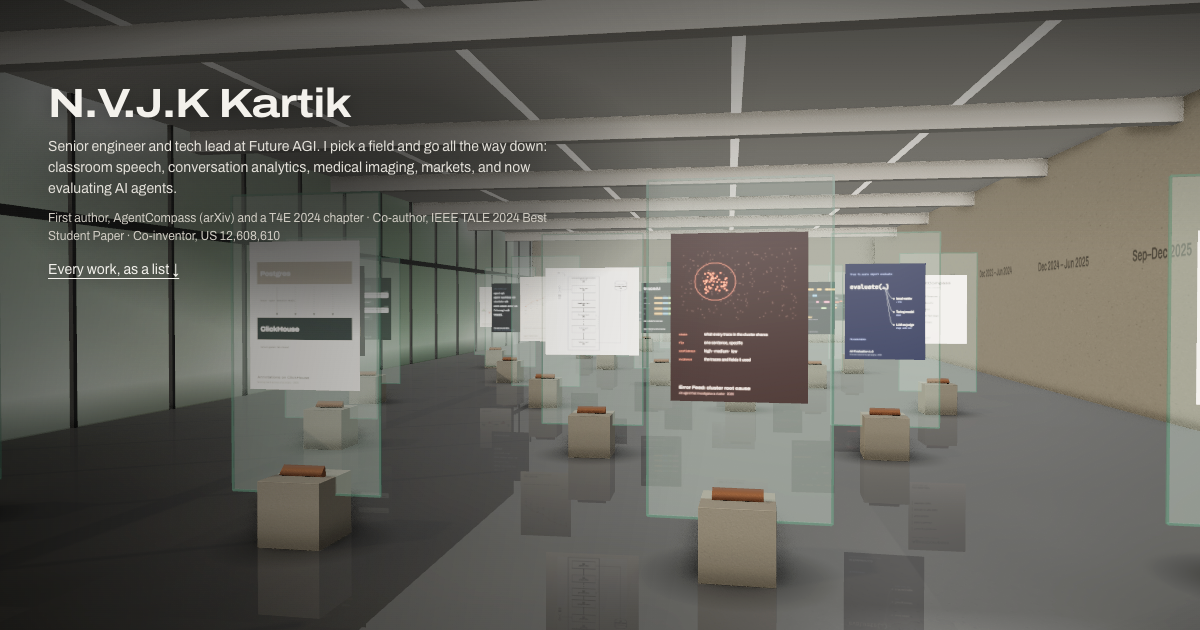
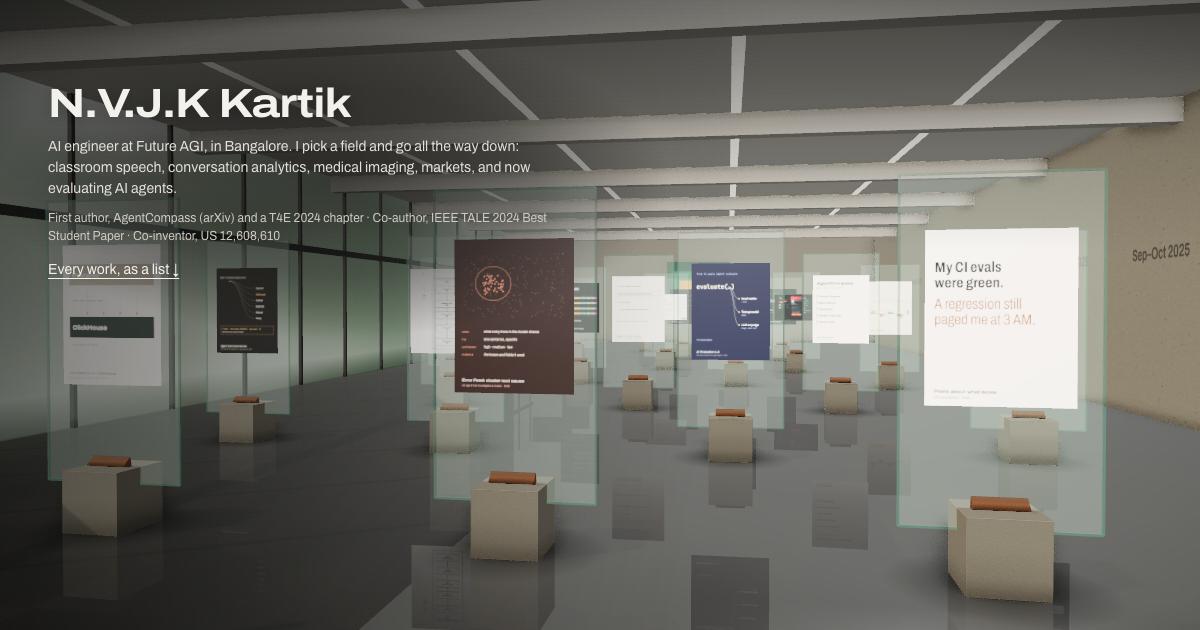
fix(content): AI engineer in Bangalore, no talk he doesn't recognise, real numbers
From Kartik:
- His title is AI engineer ("1 year as FTE is not gonna make me senior"):
  "senior engineer and tech lead" is gone from the wall text, role, intro
  and journey. He's based in Bangalore; the wall text and Contact say so.
- He didn't recognise the Bengaluru Tech Week "Harness Engineering" session,
  so the easel, its plate, the Luma source and the "co-hosted" line go. The
  hall has 22 works; rows run 3/4/3/4/3/3/2 so the front rows still stagger.
- Adoption numbers, dated and sourced, only where they're good: traceAI's
  core Python package did 14,383 downloads last month and has 222 GitHub
  stars; the open-source platform Error Feed ships in has 2,077.
Posters regenerated.

diff --git a/site/content/work.ts b/site/content/work.ts
@@ -73,6 +73,8 @@ export const work: Work[] = [
       { value: '4', label: 'languages in v1.0.0', source: 'traceaiV1' },
       { value: '46 / 39 / 24', label: 'Python packages / TypeScript packages / Java modules at v1', source: 'traceaiV1' },
       { value: '54', label: 'npm packages listing me as a maintainer', source: 'npm' },
+      { value: '14k', label: 'downloads last month of traceAI’s core Python package (Sep 2026)', source: 'pypiTraceai' },
+      { value: '222', label: 'GitHub stars on traceAI (Sep 2026)', source: 'ghTraceai' },
     ],
     sections: [
       {
@@ -105,7 +107,7 @@ OpenAIInstrumentor().instrument(tracer_provider=trace_provider)`,
       { label: 'GitHub', href: 'https://github.com/future-agi/traceAI' },
       { label: 'v1.0.0 release notes', href: 'https://github.com/future-agi/traceAI/releases/tag/v1.0.0' },
     ],
-    sources: ['traceaiRepo', 'traceaiV1', 'traceaiContributors', 'npm'],
+    sources: ['traceaiRepo', 'traceaiV1', 'traceaiContributors', 'npm', 'pypiTraceai', 'ghTraceai'],
   },
   {
     slug: 'agentcompass',
@@ -513,10 +515,13 @@ OpenAIInstrumentor().instrument(tracer_provider=trace_provider)`,
       src: '/media/plates/error-feed.webp',
       alt: 'Plate: failing traces with one cluster circled, and the cause, fix, confidence and evidence the agent returns.',
     },
-    facts: [{ value: '65–92%', label: 'lower feed API latencies after the performance pass', source: 'prErrorFeed' }],
+    facts: [
+      { value: '65–92%', label: 'lower feed API latencies after the performance pass', source: 'prErrorFeed' },
+      { value: '2,077', label: 'GitHub stars on the open-source platform it ships in (Sep 2026)', source: 'ghPlatform' },
+    ],
     sections: [],
     links: [{ label: 'PR #853', href: 'https://github.com/future-agi/future-agi/pull/853' }],
-    sources: ['prErrorFeed'],
+    sources: ['prErrorFeed', 'ghPlatform'],
   },
   {
     slug: 'annotations-clickhouse',

diff --git a/site/content/profile.ts b/site/content/profile.ts
@@ -8,12 +8,13 @@ export const profile = {
   /** One line of proof under the wall text: facts, not adjectives. */
   proof: 'First author, AgentCompass (arXiv) and a T4E 2024 chapter · Co-author, IEEE TALE 2024 Best Student Paper · Co-inventor, US 12,608,610',
   /** The wall text at the entrance to the hall. */
-  wall: 'Senior engineer and tech lead at Future AGI. I pick a field and go all the way down: classroom speech, conversation analytics, medical imaging, markets, and now evaluating AI agents.',
+  wall: 'AI engineer at Future AGI, in Bangalore. I pick a field and go all the way down: classroom speech, conversation analytics, medical imaging, markets, and now evaluating AI agents.',
   // The first thing people read. Short on purpose.
-  role: 'Senior engineer and tech lead, Future AGI',
+  role: 'AI engineer, Future AGI',
+  city: 'Bangalore',
   // The first thing people read. Short on purpose.
   intro:
-    'Engineer and researcher. I’m a senior engineer and tech lead at Future AGI, working across evaluation, simulation, the gateway and the open-source SDKs. Before that: classroom AI research, conversation analytics, medical imaging, markets, and college builds with friends.',
+    'Engineer and researcher. I’m an AI engineer at Future AGI, working across evaluation, simulation, the gateway and the open-source SDKs. Before that: classroom AI research, conversation analytics, medical imaging, markets, and college builds with friends.',
   // About, beside the rabbit holes (which carry the where and the what).
   about: [
     'I’m Kartik. I build things across research and product, and I like the stretch where they meet: a model that has to survive real users, or an app that needs real ML underneath it.',

diff --git a/site/content/journey.ts b/site/content/journey.ts
@@ -108,7 +108,7 @@ export const journey: Stop[] = [
     when: 'Dec 2024 — now',
     sort: '2024-12',
     place: 'Future AGI',
-    role: 'Intern, then full-time from Jul 2025. Now senior engineer and tech lead',
+    role: 'AI engineer: intern from Dec 2024, full-time from Jul 2025',
     kind: 'industry',
     summary:
       'Most of the platform and its open-source SDKs: evaluation, Agent Optimizer, simulation, the gateway, Error Feed, and the data and annotation systems underneath.',
@@ -117,7 +117,7 @@ export const journey: Stop[] = [
       'Built the Error Feed root-cause agent, which investigates a cluster of failing traces and returns a cause, a fix, a confidence and its evidence.',
       'Shipped Agent Optimizer’s first release, chat simulation in Simulate SDK, and the Agent Command Center SDK 1.0.',
       'Moved the annotation system onto ClickHouse, and published traceAI v1.0.0 in four languages.',
-      'First author of AgentCompass; co-inventor on a granted US patent; co-hosted a Bengaluru Tech Week session.',
+      'First author of AgentCompass; co-inventor on a granted US patent.',
     ],
     work: [
       'ai-evaluation',
@@ -131,17 +131,6 @@ export const journey: Stop[] = [
       'agentcompass',
     ],
     research: ['agentcompass', 'synthetic-data-patent'],
-    sources: [
-      'prEvaluation',
-      'prErrorFeed',
-      'prAgentOpt',
-      'prSimulate',
-      'prAgentcc',
-      'prAnnotations',
-      'traceaiV1',
-      'arxivAgentCompass',
-      'patent',
-      'luma',
-    ],
+    sources: ['prEvaluation', 'prErrorFeed', 'prAgentOpt', 'prSimulate', 'prAgentcc', 'prAnnotations', 'traceaiV1', 'arxivAgentCompass', 'patent'],
   },
 ];

diff --git a/site/content/hall.ts b/site/content/hall.ts
@@ -1,6 +1,5 @@
 import { work } from './work';
 import { research } from './research';
-import { speaking } from './more';
 import { posts } from './writing';
 
 // Everything in the hall is derived from the content files, so a label can never disagree with its page.
@@ -84,22 +83,6 @@ const fromResearch = research
     };
   });
 
-const talks = speaking.map<Exhibit>(s => ({
-  id: s.slug,
-  title: s.title.split(':')[0],
-  short: 'Talk',
-  when: monthLabel(s.date),
-  sort: month(s.date),
-  place: s.event,
-  medium: 'Live session',
-  part: s.role,
-  caption: lead(s.role),
-  credit: s.credit,
-  href: s.href,
-  external: true,
-  image: { src: `/media/plates/${s.slug}.webp`, alt: `Plate: ${s.title}.`, ratio: PLATE },
-}));
-
 const oldest = posts[posts.length - 1];
 const writing: Exhibit = {
   // Not 'writing': that's the home section's id, and a shared /#writing link has to land on the section.
@@ -117,10 +100,10 @@ const writing: Exhibit = {
   image: { src: '/media/plates/writing.webp', alt: 'Plate: “My CI evals were green. A regression still paged me at 3 AM.”', ratio: PLATE },
 };
 
-export const exhibits: Exhibit[] = [...fromWork, ...fromResearch, ...talks, writing].sort((a, b) => b.sort.localeCompare(a.sort));
+export const exhibits: Exhibit[] = [...fromWork, ...fromResearch, writing].sort((a, b) => b.sort.localeCompare(a.sort));
 
 /** Rows alternate four and three easels, so every row stands in the gaps of the one in front. */
-const ROW_SIZES = [4, 3, 4, 3, 4, 3, 2];
+const ROW_SIZES = [3, 4, 3, 4, 3, 3, 2];
 export const rows: Exhibit[][] = (() => {
   const out: Exhibit[][] = [];
   let i = 0;

diff --git a/site/content/sources.ts b/site/content/sources.ts
@@ -155,12 +155,6 @@ export const sources = {
     url: 'https://medium.com/@kartik.nvj',
     supports: 'Articles snapshotted into the Writing section.',
   },
-  luma: {
-    id: 'luma',
-    label: 'Luma — Harness Engineering (Bengaluru Tech Week)',
-    url: 'https://luma.com/future-bpgk',
-    supports: '6 Sep 2026, 11:00–13:00 IST at Future AGI, HSR Layout; Kartik listed among hosts.',
-  },
   linkedin: {
     id: 'linkedin',
     label: 'LinkedIn',
@@ -221,6 +215,24 @@ export const sources = {
     url: 'https://github.com/future-agi/future-agi/pull/1495',
     supports:
       'Annotation reads of trace, span and session data moved to ClickHouse; tenant-gated, fail-closed; supersedes the drop-safety draft #1214. Authored by Kartik.',
+  },
+  pypiTraceai: {
+    id: 'pypiTraceai',
+    label: 'PyPI Stats — fi-instrumentation-otel',
+    url: 'https://pypistats.org/packages/fi-instrumentation-otel',
+    supports: 'traceAI’s core Python instrumentation package: 14,383 downloads in the month to 26 Sep 2026 (traceai-openai: 11,864).',
+  },
+  ghTraceai: {
+    id: 'ghTraceai',
+    label: 'GitHub — future-agi/traceAI',
+    url: 'https://github.com/future-agi/traceAI/stargazers',
+    supports: '222 stars and 44 forks on 26 Sep 2026.',
+  },
+  ghPlatform: {
+    id: 'ghPlatform',
+    label: 'GitHub — future-agi/future-agi',
+    url: 'https://github.com/future-agi/future-agi/stargazers',
+    supports: 'The open-source platform repository Error Feed and the annotation reads ship in: 2,077 stars and 644 forks on 26 Sep 2026.',
   },
   futureAgiOrg: {
     id: 'futureAgiOrg',

diff --git a/site/scripts/plates/draw.js b/site/scripts/plates/draw.js
@@ -315,17 +315,6 @@ const DRAW = {
     txt(g, 'paged me at 3 AM.', 64, 670, { size: 104, weight: 300, color: '#9a4a2f', width: 76 });
     caption(g, W, H, 'Posts about what broke', 'DEV and Medium · 2026 —', '#1d1c1a', '#77726a');
   },
-  'harness-engineering-btw-2026'(g, W, H) {
-    g.fillStyle = '#0d2a52';
-    g.fillRect(0, 0, W, H);
-    txt(g, 'HARNESS', 64, 330, { size: 150, weight: 800, color: '#f2eee4', width: 70 });
-    txt(g, 'ENGINEERING', 64, 480, { size: 150, weight: 800, color: '#f2eee4', width: 70 });
-    wrap(g, 'Build the loop around agents you can trust. A live build, from a failing model call.', 64, 600, W - 128, 42, {
-      size: 30,
-      color: '#b9c8e0',
-    });
-    caption(g, W, H, 'Bengaluru Tech Week', '6 Sep 2026 · co-host', '#f2eee4', '#b9c8e0');
-  },
   'speaker-diarization-tale-2024'(g, W, H) {
     g.fillStyle = '#1d1a26';
     g.fillRect(0, 0, W, H);

diff --git a/site/app/page.tsx b/site/app/page.tsx
@@ -105,7 +105,7 @@ export default function Home() {
               ))}
             </p>
             <p className={s.receipts}>
-              <Link href="/receipts/">Receipts</Link> for every fact on this site.
+              Based in {profile.city}. <Link href="/receipts/">Receipts</Link> for every fact on this site.
             </p>
           </section>
           <footer className={s.end}>

diff --git a/site/docs/SOURCES.md b/site/docs/SOURCES.md
@@ -16,7 +16,6 @@ Checked 2026-09-25. The machine-readable version is `content/sources.ts`, and it
 | traceAI v1.0.0 published by @NVJKKartik on 2026-03-11; 46 Python pkgs / 39 TS pkgs / 24 Java modules / C# core                                                                                                       | release page + GitHub API                                      |                                                                                                                                                           |
 | Top committer (215 commits); JayaSurya-27 second; sarthakFuture, nik13 and others                                                                                                                                    | GitHub contributors API                                        | Numbers will drift; the date is on the site.                                                                                                              |
 | Maintainer on 54 npm packages                                                                                                                                                                                        | npm registry search `maintainer:nvjkkartik`                    | npmjs.com itself 403s bots.                                                                                                                               |
-| Harness Engineering, Bengaluru Tech Week, 6 Sep 2026, 11:00–13:00 IST, Future AGI HSR Layout; Kartik listed as a **host**                                                                                            | https://luma.com/future-bpgk                                   | Not described as a talk by Kartik.                                                                                                                        |
 | Writing: 18 DEV posts + Medium's latest 10                                                                                                                                                                           | DEV API, Medium RSS                                            | Snapshot in `content/writing/posts.json`. Originals are canonical.                                                                                        |
 | Experiments: llama2-qlora-hi-7b, emotion–cause pair repos, Hivemind, Alumni Connect, Photo-Metadata, Quotation-Generator, BlackJack                                                                                  | GitHub / Hugging Face                                          | Only first-party, non-fork repos.                                                                                                                         |
 | Works at Future AGI                                                                                                                                                                                                  | patent assignee, traceAI org, Luma host listing                | **No job title is shown.**                                                                                                                                |

diff --git a/site/docs/INVENTORY.md b/site/docs/INVENTORY.md
@@ -15,7 +15,7 @@ Built from three inputs: the original portfolio (`../src`, live at nvjkkartik.ne
 | NIT Puducherry, MLOps Intern, Dept of CSE, Dec 2023 – Jan 2024                      | old portfolio `Jobs/NITPY.js`                                                                                       | Self-reported. 77% / 86% / 95% figures shown on the case study only                                                | Journey, Work (lung nodules)           |
 | E2MIP (Jun 2023 post stub)                                                          | old `src/posts/e2mip.mdx`                                                                                           | **Dropped.** Dated before the NIT-Py role and no participation record found                                        | —                                      |
 | IIT Madras, RBCDSAI Research Intern, "June 2024 – Present"                          | old portfolio `Jobs/IITM.js`                                                                                        | **Stale "Present"** corrected: three months from Jun 2024 (confirmed by Kartik). "Preliminary results" not claimed | Journey                                |
-| Future AGI, Dec 2024 – now                                                          | patent assignee, traceAI org, Luma host, repo activity from Apr 2025; start and role change from Kartik, 2026-09-26 | Verified employer. Intern from Dec 2024, full-time from Jul 2025; now senior engineer and tech lead                | Journey, Work, About, back wall        |
+| Future AGI, Dec 2024 – now                                                          | patent assignee, traceAI org, Luma host, repo activity from Apr 2025; start and role change from Kartik, 2026-09-26 | Verified employer. Intern from Dec 2024, full-time from Jul 2025; AI engineer (his title, 2026-09-26)              | Journey, Work, About, back wall        |
 
 ## Projects
 
@@ -43,7 +43,6 @@ Unchanged from `SOURCES.md`: AgentCompass (preprint), TALE 2024 Best Student Pap
 ## Writing, talks, community
 
 - 28 posts snapshotted (all DEV + Medium's latest 10). Canonical links point to the originals.
-- Harness Engineering, Bengaluru Tech Week, 6 Sep 2026: listed as a **host**.
 - Profiles: GitHub, LinkedIn (unreadable to tools), DEV, Medium, Hugging Face, npm, PyPI (bot-walled).
 
 ## Media used
